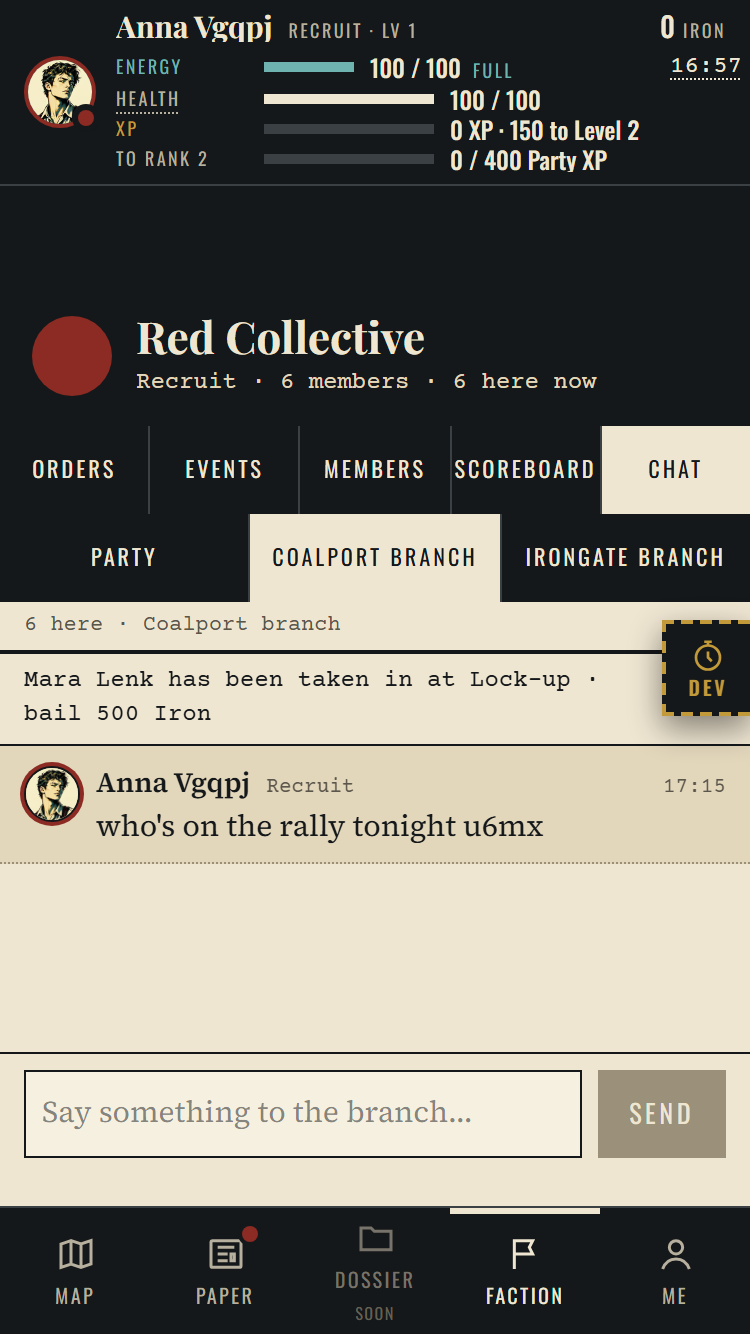
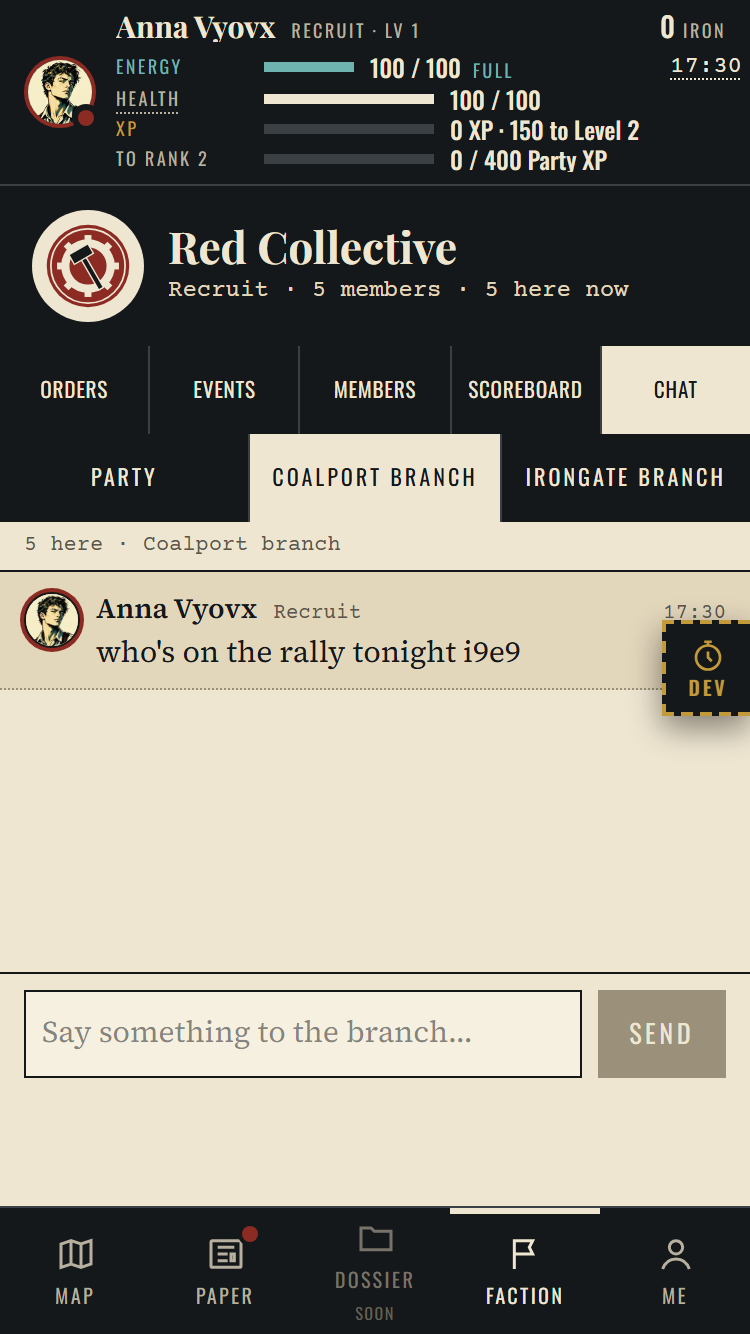
Slice 6 T24: the full e2e's fixes and the coordinator's header notes
- The Faction header: one compact band (no empty strip), the faction's real
  crest (content's crest.{faction} SVG); the tabs keep clear of their cell
  edges at 360 px (less tracking); four chips on desktop (Chat is the column)
  and no Chat chip once chat is hidden (faction.spec follows).
- The bail payer's modal prints copy.together.knock.bailFor.
- One avatar component: Face delegates to lane B's MemberFace.
- The plate's *in town now* count from 640 px only: on a phone it pushed
  pin 4 off the first view (canvass.spec, QA M2).
- review4 / qa.review4 vocabulary sweeps allow content's Canvass Drive and
  Canvasser (a question for the designer, Deviations phase C).
- The QA screenshots in docs/qa/slice-6 retaken with the new header.

diff --git a/apps/client/src/routes/faction.tsx b/apps/client/src/routes/faction.tsx
@@ -1,5 +1,5 @@
 import { copy } from '@irongate/content/copy';
-import { FACTION_TABS, FactionCrest, FactionTabs } from '@irongate/ui';
+import { FACTION_TABS, FactionTabs, artUrl } from '@irongate/ui';
 import type { FactionTab } from '@irongate/ui';
 import { useQuery } from '@tanstack/react-query';
 import { useNavigate, useSearch } from '@tanstack/react-router';
@@ -61,8 +61,11 @@ export function FactionPage() {
   useEffect(() => rememberTab(tab), [tab]);
 
   const go = (t: FactionTab) => void navigate({ to: '/faction', search: { tab: t }, replace: true });
-  // On a desktop Chat is the right-hand column, so the left keeps the last other part.
-  const left: FactionTab = wide && tab === 'chat' ? 'events' : tab;
+  const chatHidden = !!character?.chat?.hidden;
+  // Screens §10: on a desktop Chat is the right-hand column (four chips); with chat hidden from Me
+  // there is no Chat chip at all. Either way the left keeps another part.
+  const tabs = FACTION_TABS.filter((t) => t !== 'chat' || (!wide && !chatHidden));
+  const left: FactionTab = tab === 'chat' && (wide || chatHidden) ? 'events' : tab;
 
   const body = (t: FactionTab) => {
     switch (t) {
@@ -82,9 +85,19 @@ export function FactionPage() {
   const h = hq.data;
   return (
     <div className="flex min-h-full flex-col bg-paper text-ink" data-testid="faction-page">
-      <header className="relative flex min-h-[120px] shrink-0 items-end bg-ink px-4 pt-4 pb-3 text-paper">
+      <header className="relative flex shrink-0 items-center bg-ink px-4 py-3 text-paper">
         <div className="mx-auto flex w-full max-w-[1000px] items-center gap-3">
-          {character && <FactionCrest factionId={character.factionId} label={h?.faction.name ?? ''} size={40} />}
+          {/* The faction's crest (content's `crest.{faction}` SVG, ADR 0015), on paper so it reads on ink. */}
+          {character && (
+            <span className="flex size-14 shrink-0 items-center justify-center rounded-full bg-paper p-1.5">
+              <img
+                src={artUrl(`crest.${character.factionId}`, 0, 'svg')}
+                alt={h?.faction.name ?? character.factionName}
+                className="size-full object-contain"
+                data-testid="faction-crest"
+              />
+            </span>
+          )}
           <div className="min-w-0">
             <h1 className="font-display text-[22px] leading-tight font-bold" data-testid="faction-name">
               {h?.faction.name ?? character?.factionName ?? copy.together.tabs.faction}
@@ -98,7 +111,8 @@ export function FactionPage() {
         </div>
       </header>
       <FactionTabs
-        current={wide && tab === 'chat' ? left : tab}
+        current={left}
+        tabs={tabs}
         onGo={go}
         dots={{ events: (character?.events?.unseen ?? 0) > 0, chat: !!character?.chat?.forYou }}
         className="sticky top-0 z-10"
@@ -113,7 +127,7 @@ export function FactionPage() {
           )}
         </div>
       ) : (
-        <div className="flex-1">{body(tab)}</div>
+        <div className="flex-1">{body(left)}</div>
       )}
     </div>
   );

diff --git a/packages/ui/src/components/EventCard.tsx b/packages/ui/src/components/EventCard.tsx
@@ -5,7 +5,8 @@ import { cx, formatClock, formatWeekday } from '../format';
 import { Button } from './Button';
 import { formatSwing } from './Capital';
 import { FACTION_STYLE } from './FactionCrest';
-import { Picture, artUrl } from './Picture';
+import { MemberFace } from './Members';
+import { Picture } from './Picture';
 import type { StampTone } from './Stamp';
 
 /**
@@ -37,50 +38,35 @@ export function calledByText(c: EventCaller): string {
   return c.kind === 'secretary' ? copy.together.card.calledBySecretary(c.name) : copy.together.card.calledBy(c.name);
 }
 
-/** A member's face (the 128 px avatar), or a dashed circle with *?* for an open place. */
+/**
+ * A member's face (lane B's `MemberFace`, one avatar component for the slice), or a dashed circle
+ * with *?* for an open place.
+ */
 export function Face({
   avatarId,
   size,
   open = false,
-  ring,
   className,
 }: {
   avatarId: string | null;
   size: number;
   open?: boolean;
-  /** The faction's colour ring. */
-  ring?: string;
   className?: string;
 }) {
-  const box = { width: size, height: size };
-  if (open || !avatarId)
+  if (open)
     return (
       <span
         aria-hidden="true"
-        style={box}
+        style={{ width: size, height: size }}
         className={cx(
-          'flex shrink-0 items-center justify-center rounded-full font-label text-[13px] text-muted',
-          open ? 'border-[1.5px] border-dashed border-muted' : 'border-[1.5px] border-ink bg-paper-2',
+          'flex shrink-0 items-center justify-center rounded-full border-[1.5px] border-dashed border-muted font-label text-[13px] text-muted',
           className,
         )}
       >
-        {open ? '?' : ''}
+        ?
       </span>
     );
-  return (
-    <picture className={cx('shrink-0', className)} style={box}>
-      <source type="image/avif" srcSet={artUrl(avatarId, 128, 'avif')} />
-      <img
-        src={artUrl(avatarId, 128, 'webp')}
-        alt=""
-        loading="lazy"
-        width={size}
-        height={size}
-        style={{ ...box, ...(ring ? { borderColor: ring } : {}) }}
-        className="rounded-full border-2 border-ink object-cover object-top"
-      />
-    </picture>
-  );
+  return <MemberFace avatarId={avatarId} size={size} className={className} />;
 }
 
 export interface EventCardProps {

diff --git a/packages/ui/src/components/FactionTabs.tsx b/packages/ui/src/components/FactionTabs.tsx
@@ -9,6 +9,11 @@ export interface FactionTabsProps {
   onGo: (tab: FactionTab) => void;
   /** A dot on a part (the Events tab while a result waits; Chat while a line is for you). */
   dots?: Partial<Record<FactionTab, boolean>>;
+  /**
+   * The parts shown (default all five). Desktop: four, Chat is the column at the right; chat hidden
+   * from Me: no Chat chip (screens §2, §10).
+   */
+  tabs?: readonly FactionTab[];
   className?: string;
 }
 
@@ -16,14 +21,15 @@ export interface FactionTabsProps {
  * Slice 6 (screens §2): the Faction tab's five parts as a `TramBar`-style strip, 44 px, Oswald caps
  * on ink; the current part inverted (paper on ink). Real buttons, one tap each.
  */
-export function FactionTabs({ current, onGo, dots, className }: FactionTabsProps) {
+export function FactionTabs({ current, onGo, dots, tabs = FACTION_TABS, className }: FactionTabsProps) {
   return (
     <nav
       aria-label={copy.together.tabs.faction}
-      className={cx('grid min-h-11 grid-cols-5 items-stretch gap-px bg-ink-2', className)}
+      className={cx('grid min-h-11 items-stretch gap-px bg-ink-2', className)}
+      style={{ gridTemplateColumns: `repeat(${tabs.length}, minmax(0, 1fr))` }}
       data-testid="faction-tabs"
     >
-      {FACTION_TABS.map((t) => {
+      {tabs.map((t) => {
         const on = t === current;
         return (
           <button
@@ -32,7 +38,8 @@ export function FactionTabs({ current, onGo, dots, className }: FactionTabsProps
             onClick={() => onGo(t)}
             aria-current={on ? 'page' : undefined}
             className={cx(
-              'label-caps relative flex min-h-11 min-w-0 cursor-pointer items-center justify-center px-1 py-1 text-center text-[11px] leading-[1.15] break-words',
+              // Five chips at 360 px: *Scoreboard* keeps clear of its cell's edges with less tracking.
+              'label-caps relative flex min-h-11 min-w-0 cursor-pointer items-center justify-center px-0.5 py-1 text-center text-[10.5px] leading-[1.15] tracking-[0.04em]! break-words sm:text-[11px] sm:tracking-[0.08em]!',
               'focus-visible:outline-2 focus-visible:-outline-offset-2 focus-visible:outline-paper',
               on ? 'bg-paper text-ink' : 'bg-ink text-paper hover:bg-ink-2',
             )}

diff --git a/apps/client/src/routes/city.tsx b/apps/client/src/routes/city.tsx
@@ -944,10 +944,12 @@ export function CityPage() {
             </span>
             {ruleChip('plate-rule-chip', true)}
           </div>
-          {/* Slice 6 (screens §6.1): own faction only; absent when it is only you. */}
+          {/* Slice 6 (screens §6.1): own faction only; absent when it is only you. From 640 px: on a phone the
+              plate has no line to spare (the pins must stay on the first view, QA M2); the Faction tab's
+              header carries the count there. */}
           {(c.factionHere ?? 0) > 1 && (
             <span
-              className="font-mono text-[10.5px] text-dim [@media(max-width:639px)_and_(max-height:700px)]:hidden"
+              className="hidden font-mono text-[10.5px] text-dim sm:block short:hidden"
               data-testid="plate-here"
             >
               {copy.together.hereNow.plate(c.factionHere ?? 0, character.factionName)}

diff --git a/apps/client/e2e/review4.spec.ts b/apps/client/e2e/review4.spec.ts
@@ -28,7 +28,10 @@ const WAR =
 
 /** The words a player reads on this screen: none is a system term, a war word or *close the game*. */
 async function plainWords(page: Page, screen: string) {
-  const text = await page.locator('body').innerText();
+  // Slice 6: the Collective's Canvass Drive and its Canvassers are content's event and role names
+  // (design §3); allowed here until the designer answers whether *canvass* may name an event
+  // (tech slice-6 Deviations, phase C). Every other *canvass* is still caught.
+  const text = (await page.locator('body').innerText()).replace(/\bcanvass drive\b|\bcanvassers?\b/gi, '');
   expect(text.match(SYSTEM)?.[0] ?? null, `${screen}: system term`).toBeNull();
   expect(text.match(WAR)?.[0] ?? null, `${screen}: war word`).toBeNull();
   expect(/close the game/i.test(text), `${screen}: close the game`).toBe(false);

diff --git a/apps/client/e2e/qa.review4.spec.ts b/apps/client/e2e/qa.review4.spec.ts
@@ -74,7 +74,9 @@ const SYSTEM =
 const WAR =
   /\b(war|wars|battle|troops|army|militia|enemy|enemies|uprising|front line|frontline|siege|invasion|comrades?|uniforms?|salute)\b/i;
 async function plainWords(page: Page, screen: string) {
-  const text = await page.locator('body').innerText();
+  // Slice 6: content's Canvass Drive and its Canvassers allowed, as in review4.spec.ts (a question
+  // for the designer, tech slice-6 Deviations, phase C).
+  const text = (await page.locator('body').innerText()).replace(/\bcanvass drive\b|\bcanvassers?\b/gi, '');
   expect(text.match(SYSTEM)?.[0] ?? null, `${screen}: system term`).toBeNull();
   expect(text.match(WAR)?.[0] ?? null, `${screen}: war word`).toBeNull();
   expect(/close the game/i.test(text), `${screen}: close the game`).toBe(false);

diff --git a/apps/client/e2e/faction.spec.ts b/apps/client/e2e/faction.spec.ts
@@ -170,8 +170,10 @@ test('chat live between two browsers, the limit line, report and mute; Members, 
   await b.page.goto('/me');
   await b.page.getByTestId('me-chat-toggle').click();
   await expect(b.page.getByTestId('me-chat')).toHaveText('Hidden');
+  // Screens §2, §10 (phase C): with chat hidden there is no Chat chip; a link to it opens Events.
   await b.page.goto('/faction?tab=chat');
-  await expect(b.page.getByTestId('faction-chat')).toHaveAttribute('data-hidden', 'true');
+  await expect(b.page.getByTestId('faction-tab-chat')).toHaveCount(0);
+  await expect(b.page.getByTestId('faction-events')).toBeVisible();
   await expect(b.page.getByTestId('chat-panel')).toHaveCount(0);
 
   // 6. Desktop (1440 × 900): Chat is a persistent column beside Events; hidden, it is gone.

diff --git a/packages/ui/src/components/ResultModal.tsx b/packages/ui/src/components/ResultModal.tsx
@@ -289,6 +289,9 @@ function PoliticalBody({
       text:
         r.act === 'bail'
           ? copy.risk.bailPaid(spent)
+          : // Slice 6 (design §11): the payer's line names the mate.
+            r.act === 'bailPosted' && r.view.kind === 'member'
+            ? copy.together.knock.bailFor(spent, r.view.member.name)
           : r.act === 'walkOut' || r.act === 'treated'
             ? copy.risk.wardPaid(spent)
             : copy.ironLeft(spent, formatNumber(k.iron.after)),
